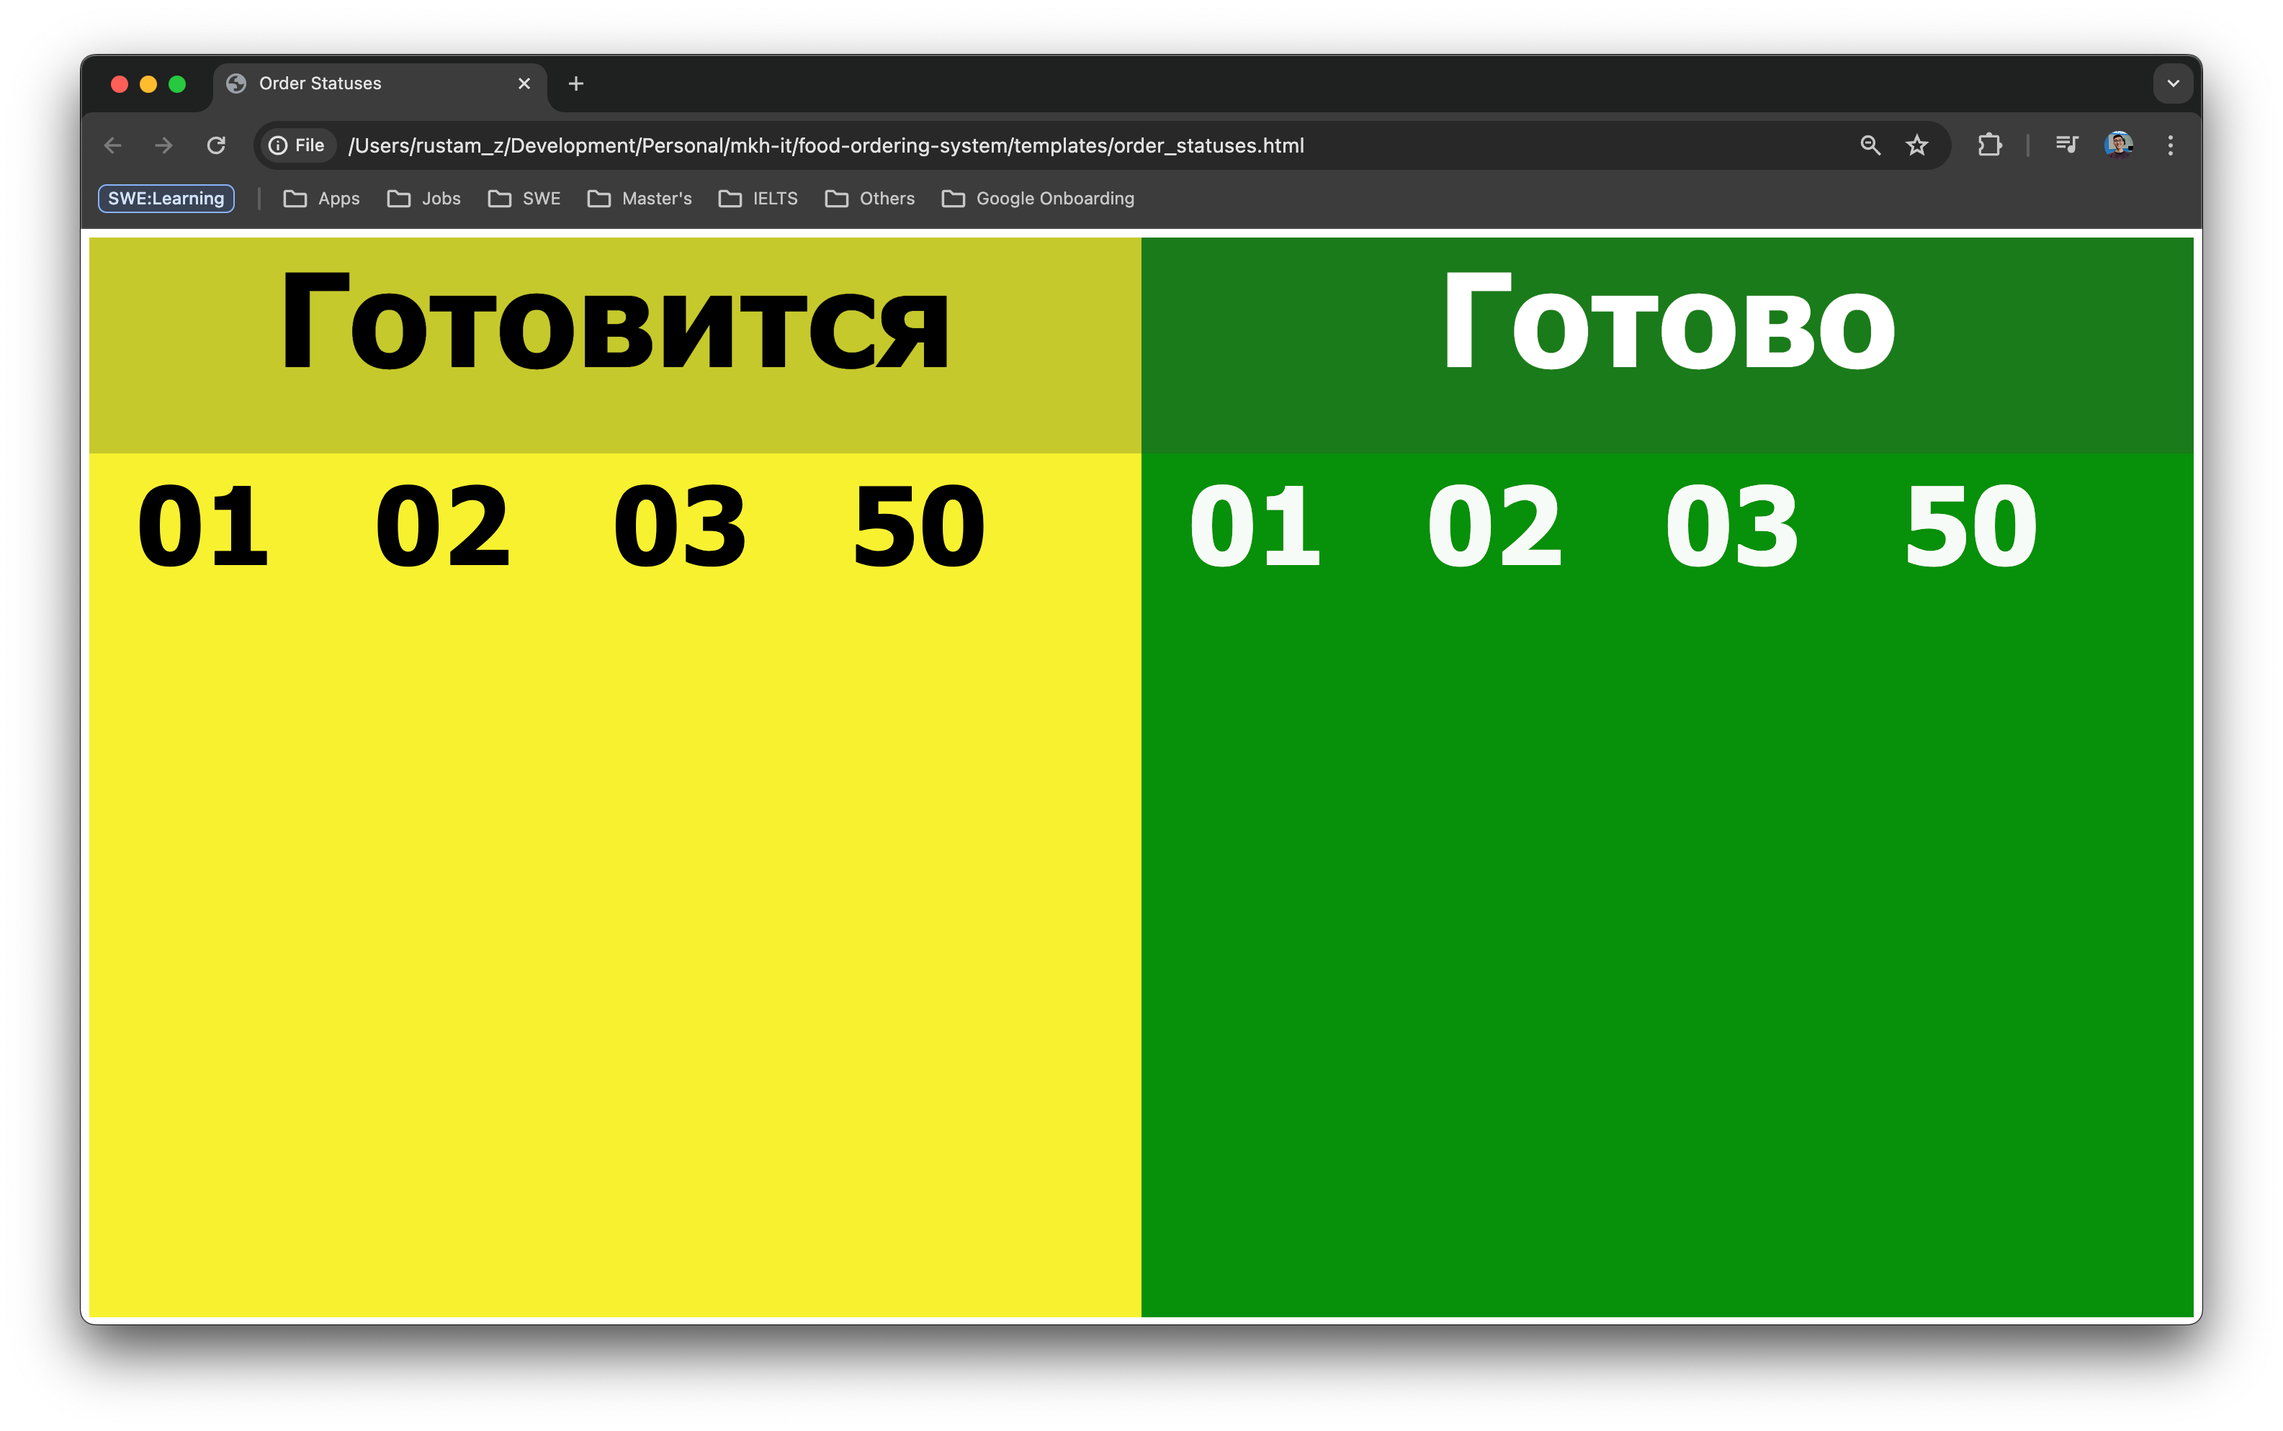
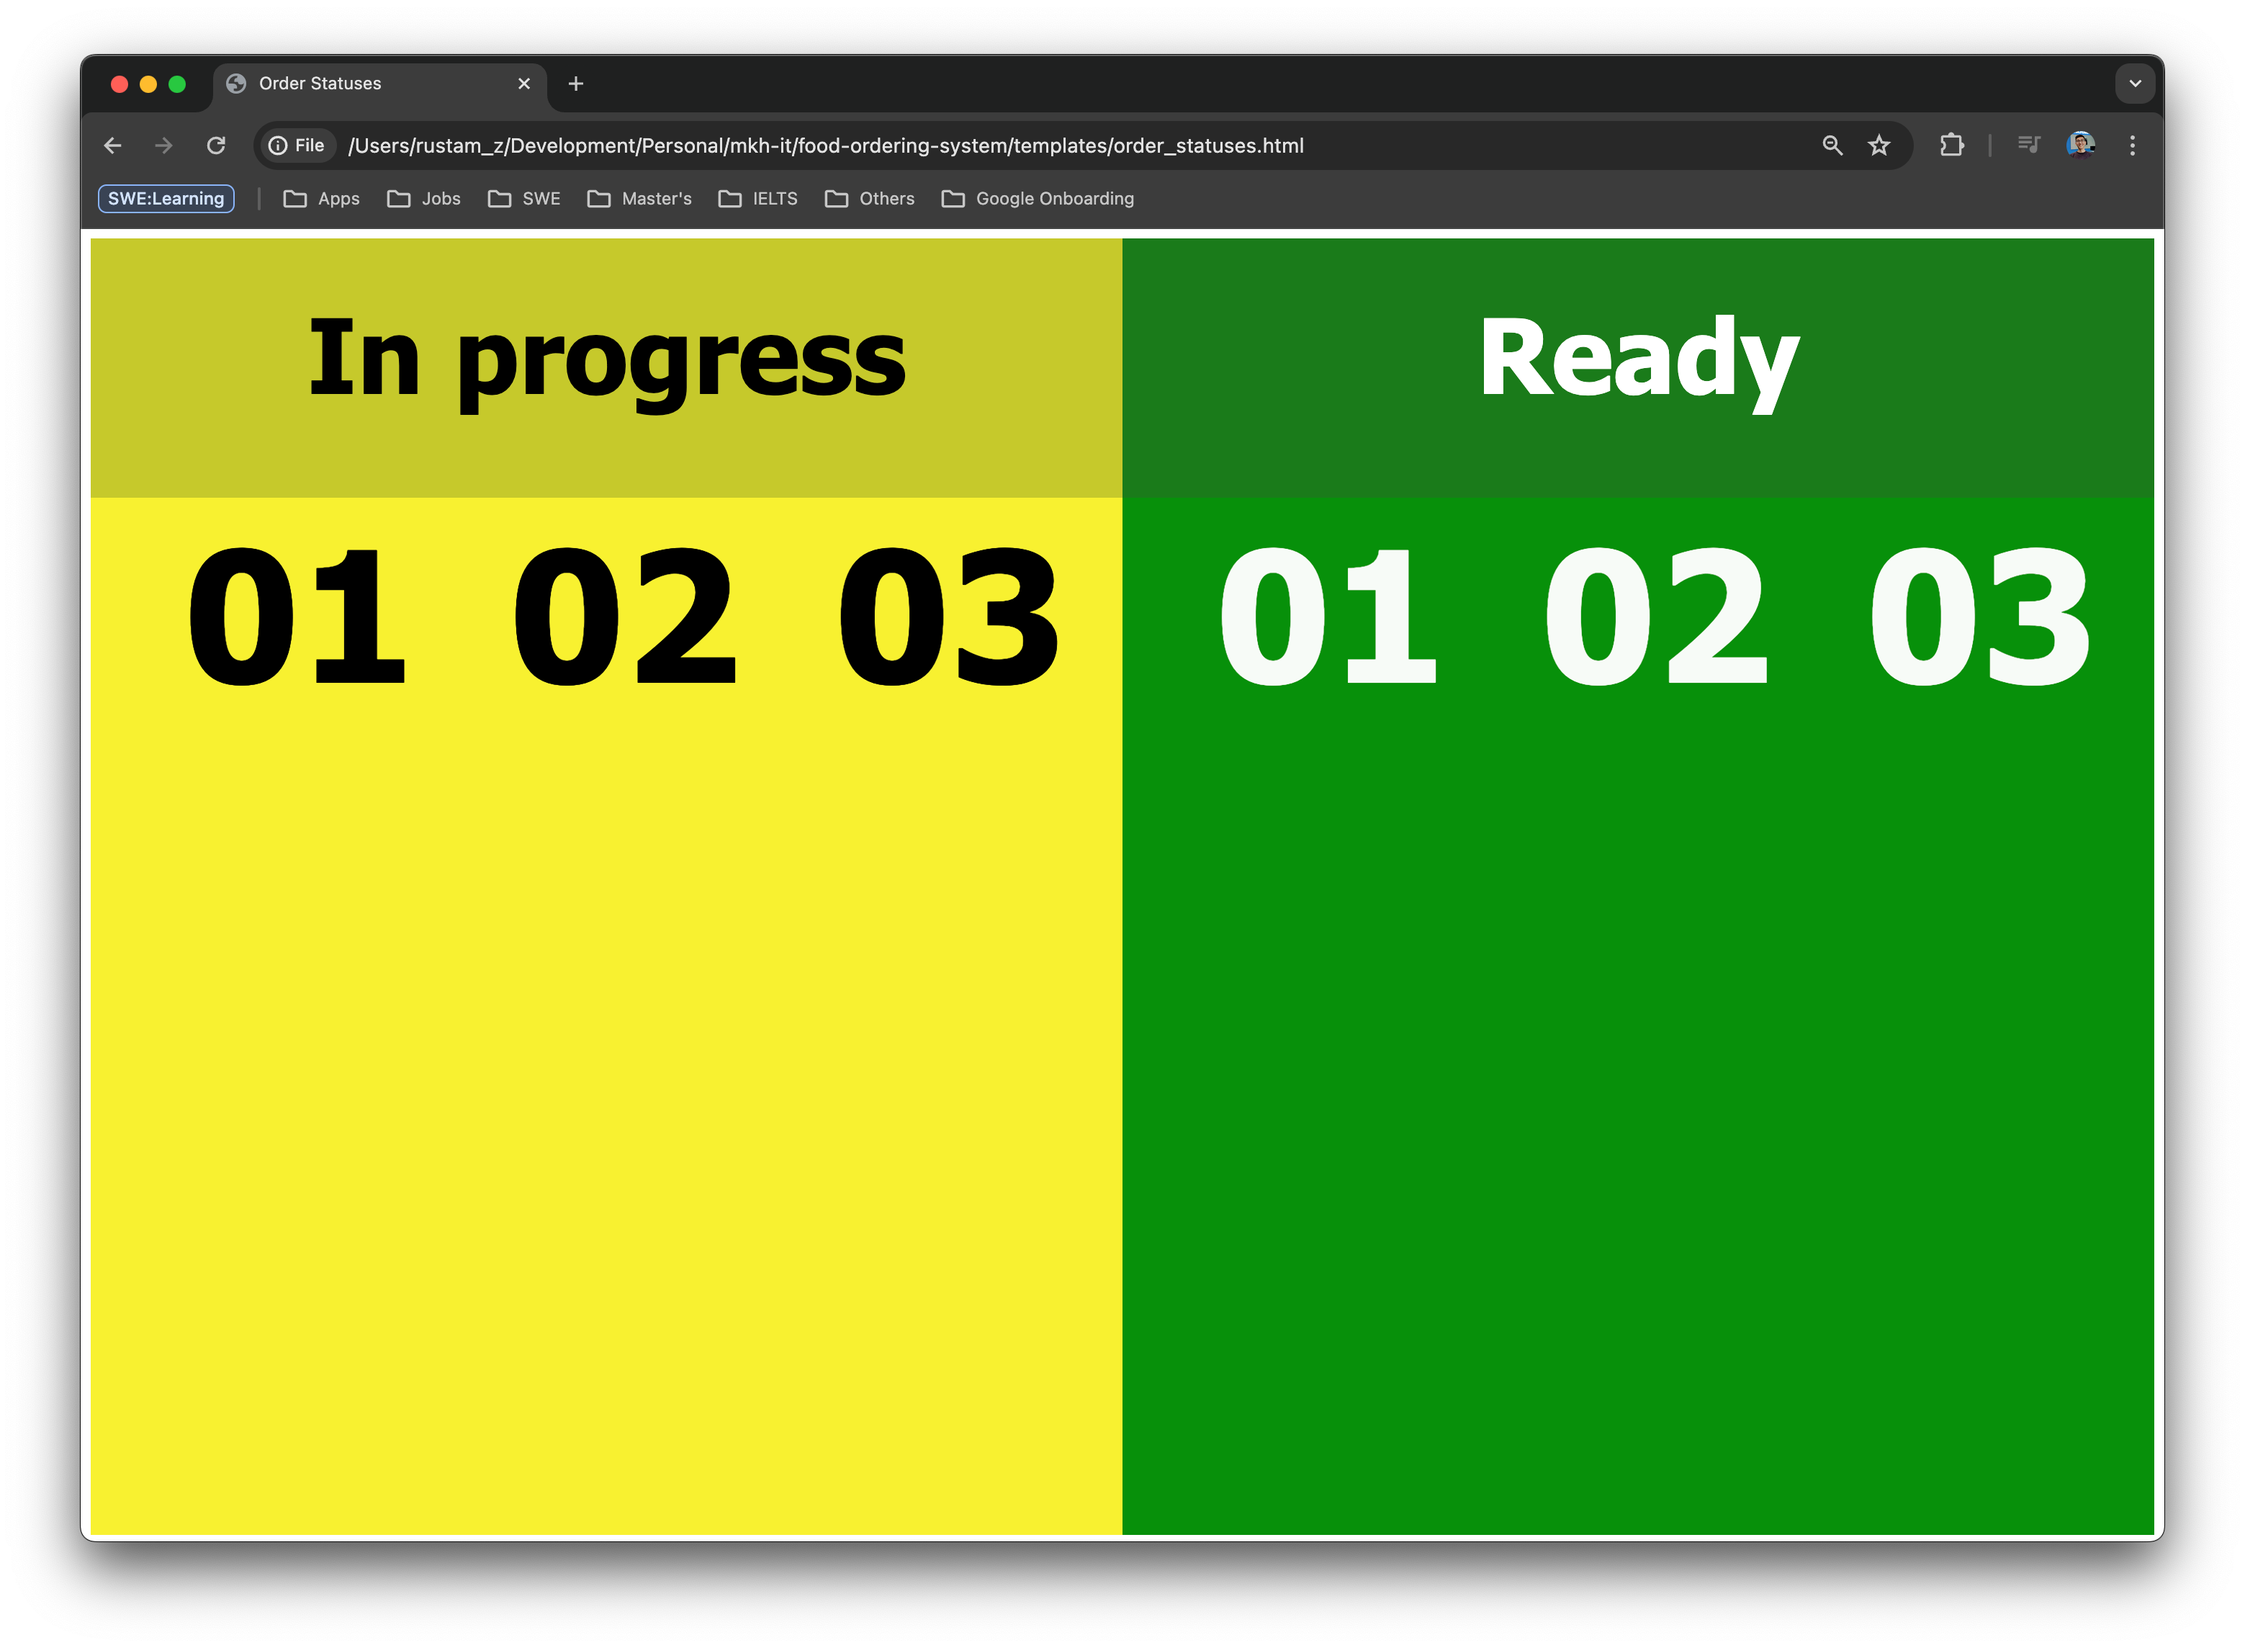
Update order statuses UI

Changed region(s): [[0.0311, 0.0312, 0.9644, 0.4366], [0.0311, 0.9044, 0.9644, 0.9668], [0.4978, 0.3119, 0.9333, 0.4366]]

diff --git a/templates/order_statuses.html b/templates/order_statuses.html
@@ -39,16 +39,16 @@
         }
         
         .top-right-text {
-            font-size: 120px;
-            margin-top: 20px;
+            font-size: 80px;
+            margin-top: 40px;
             /* margin-bottom: 0px; */
             color: white;
             text-align: center;
         }
 
         .top-left-text {
-            font-size: 120px;
-            margin-top: 20px;
+            font-size: 80px;
+            margin-top: 40px;
             /* margin-bottom: 0px; */
             text-align: center;
         }
@@ -72,10 +72,10 @@
 
     <div style="display: flex;">
         <div class="block-top-left">   
-            <b><p class="top-left-text ">Готовится</p></b>
+            <b><p class="top-left-text ">In progress</p></b>
         </div>
         <div class="block-top-right">
-            <b><p class="top-right-text">Готово</p></b>
+            <b><p class="top-right-text">Ready</p></b>
         </div>    
     </div>
 
